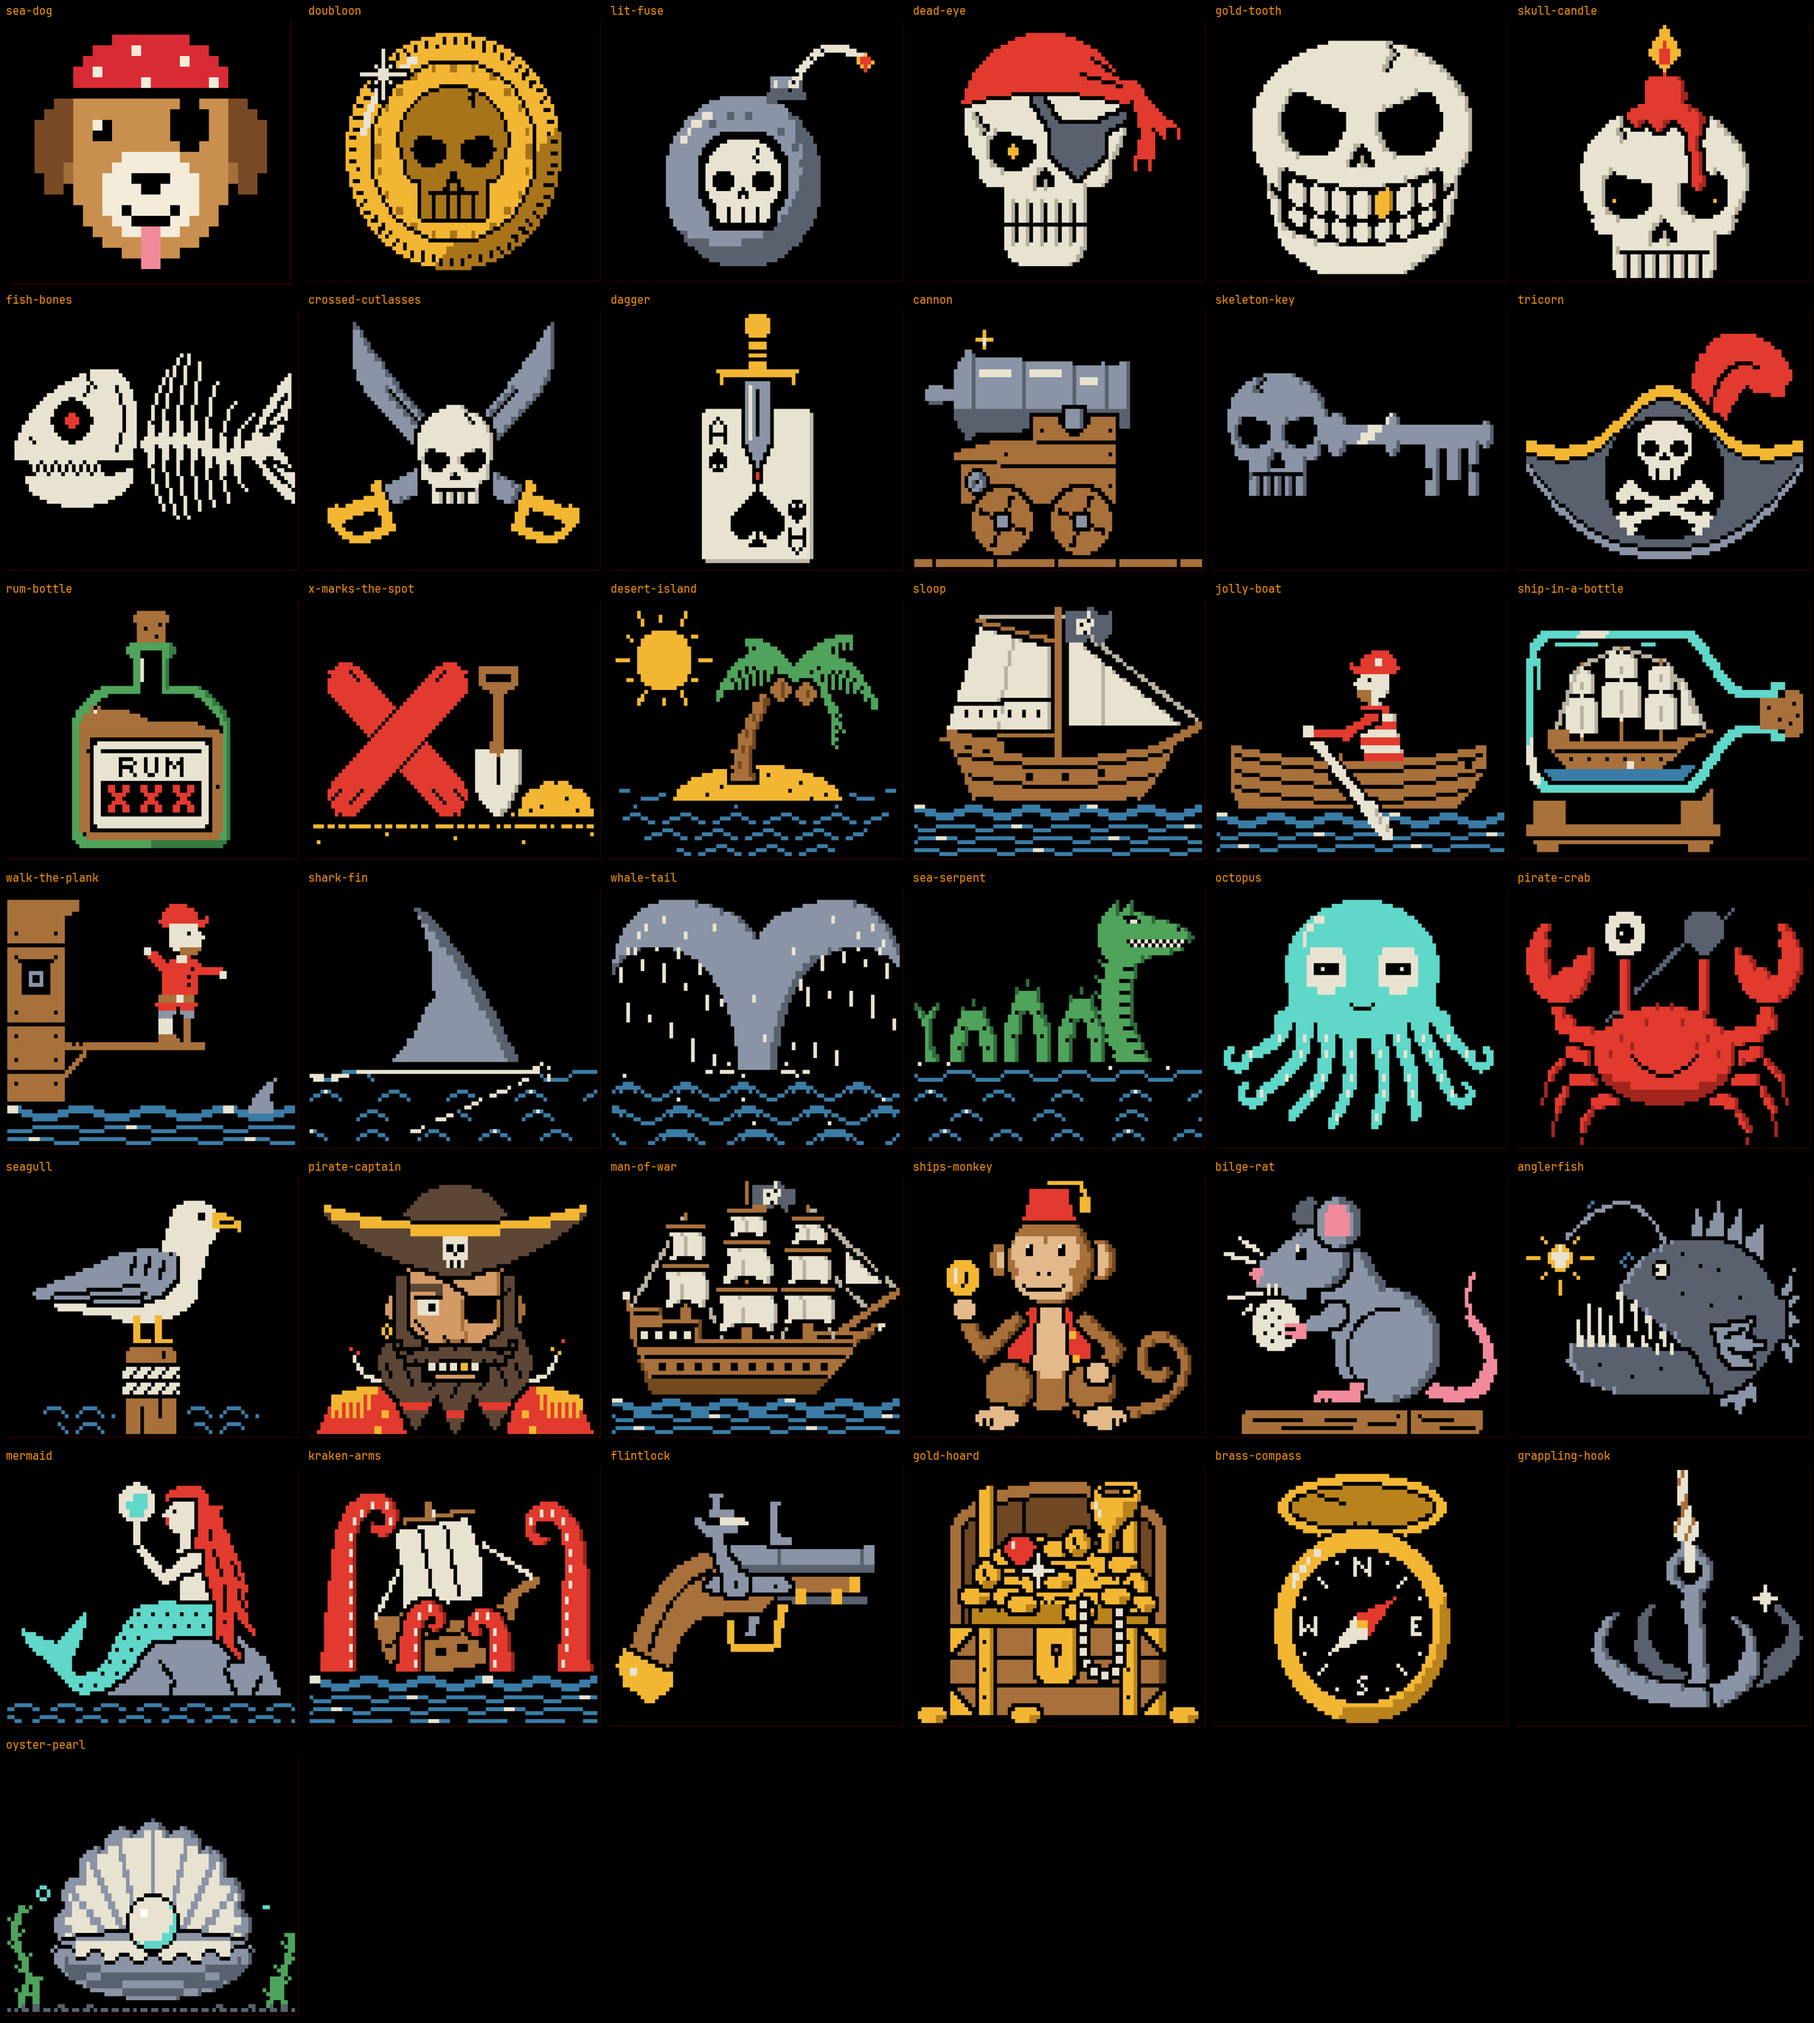
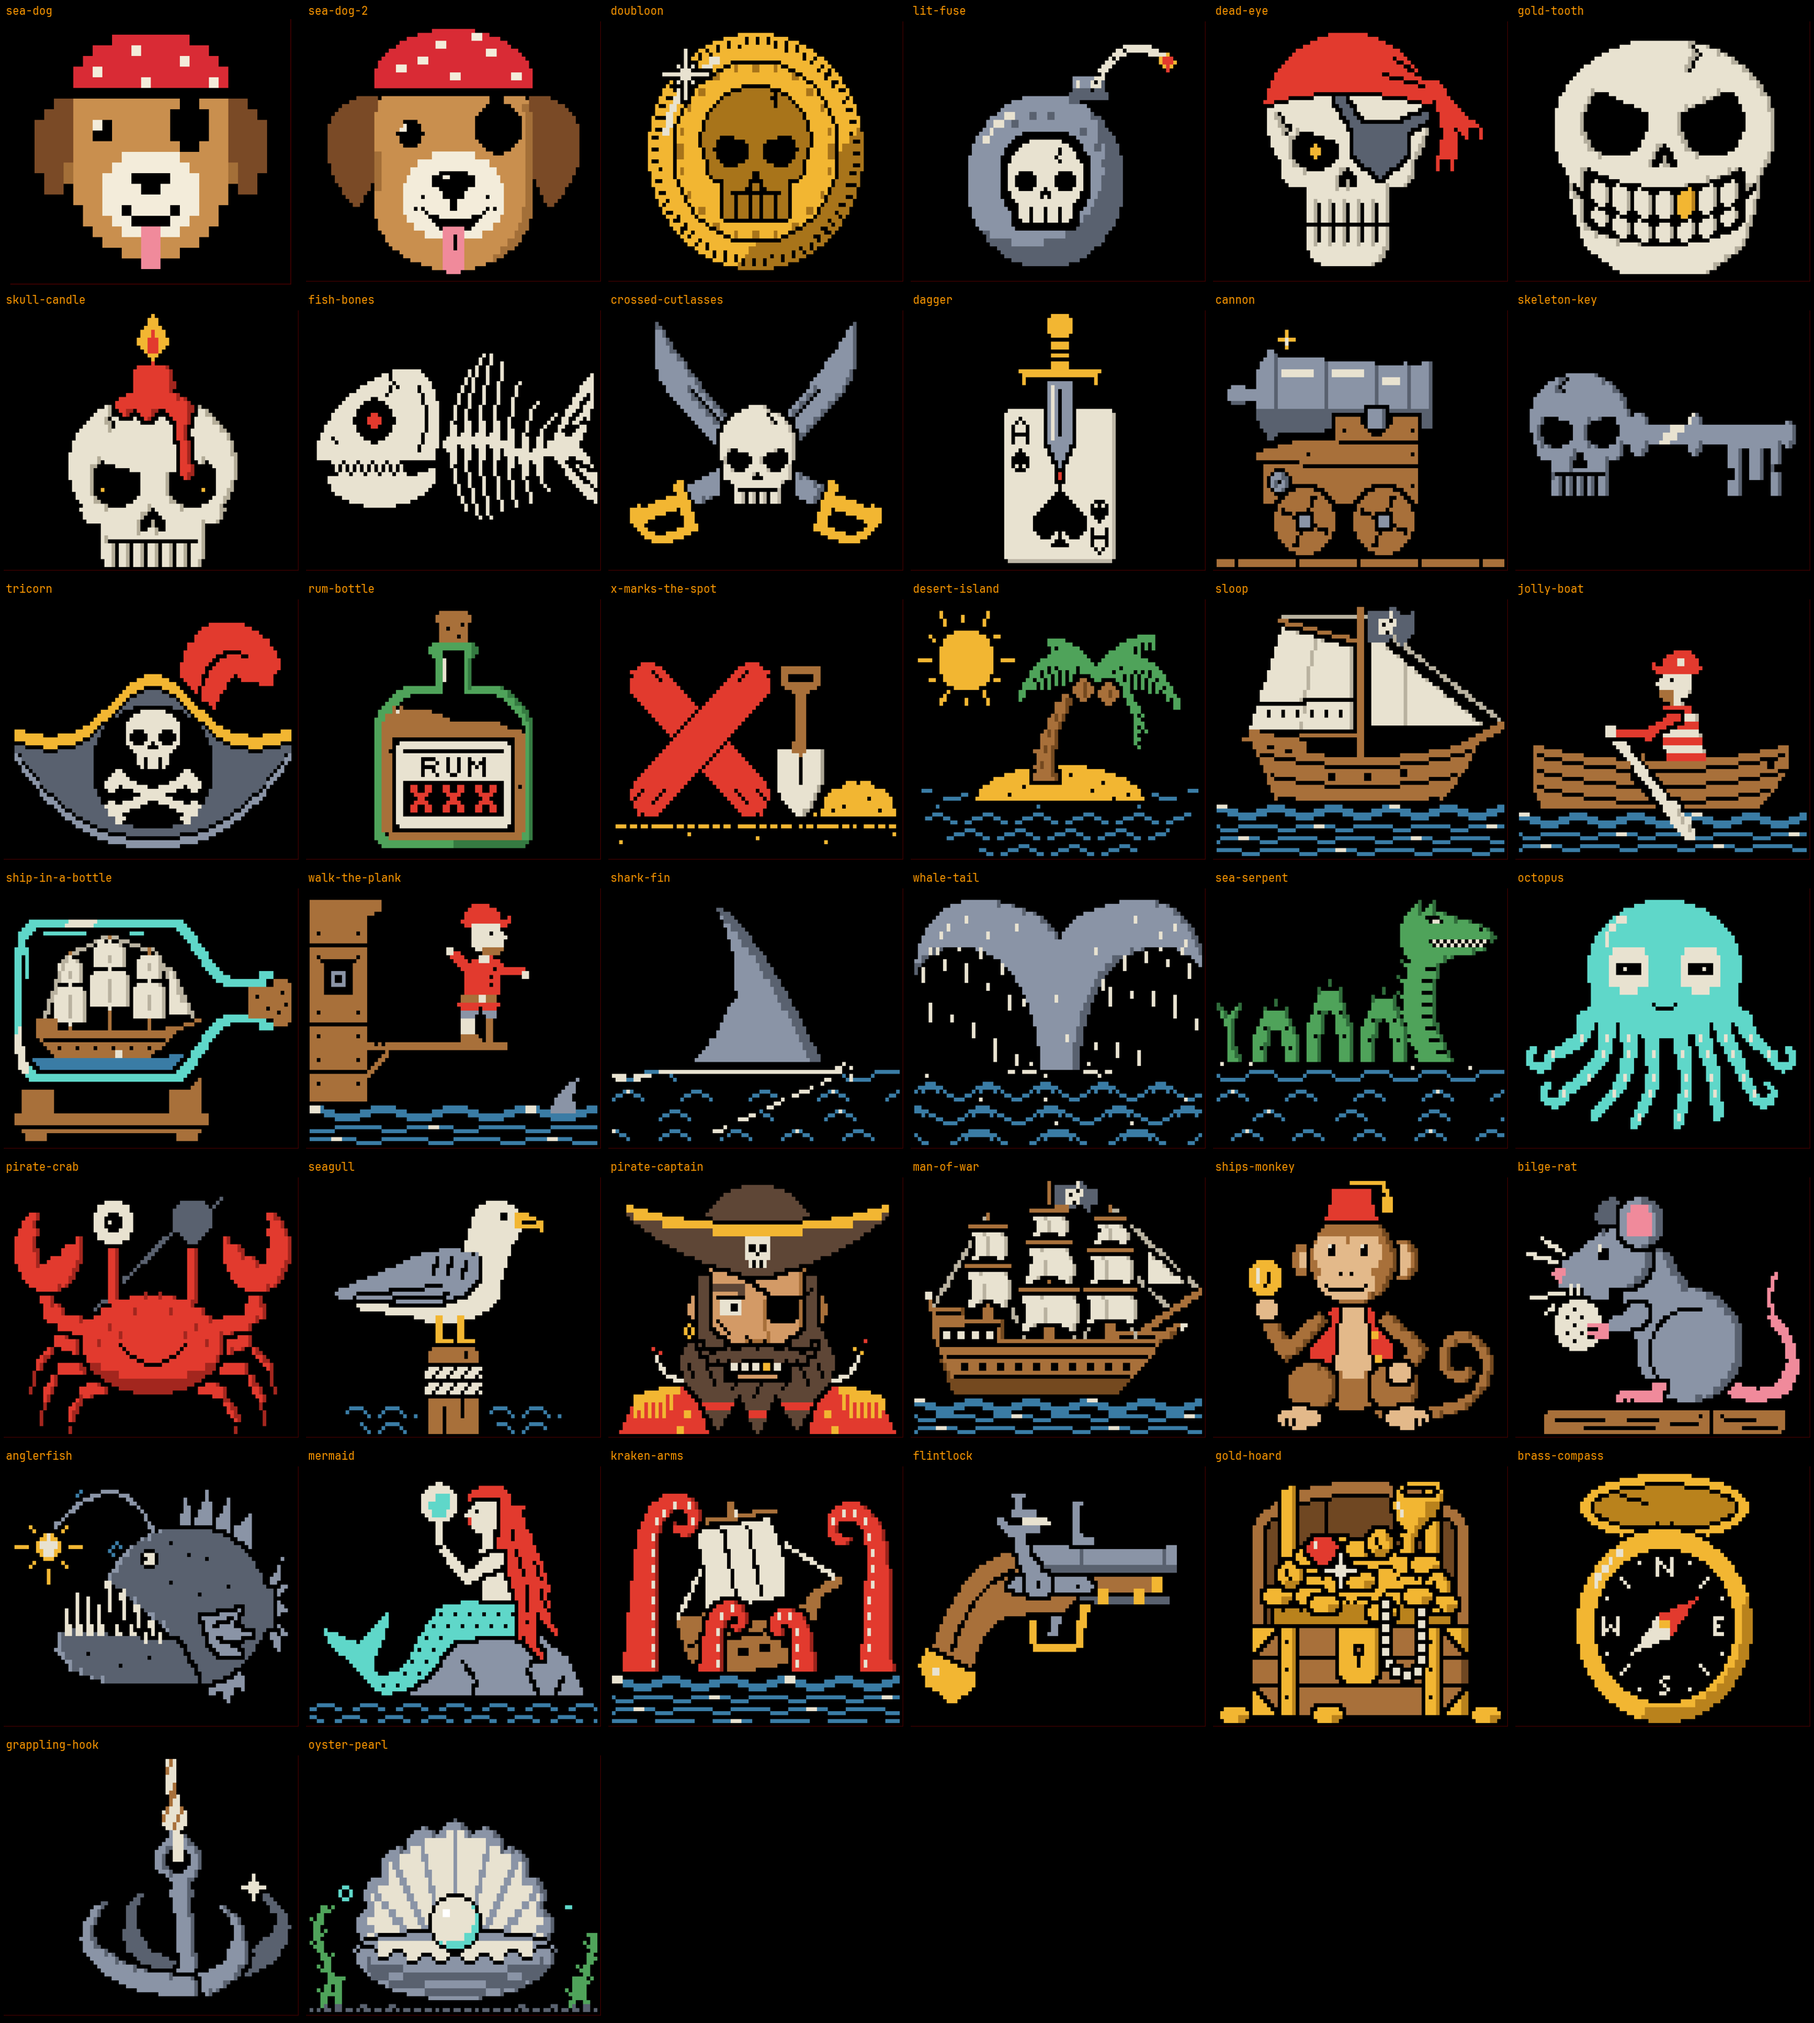
Add sea-dog-2, the pirate dog drawn finer, and release 0.2.1
sea-dog stays as the dog was drawn for the website, 26 pixels across;
sea-dog-2 is the same dog with a canvas pixel for every detail.

diff --git a/src/pieces/sea-dog-2.ts b/src/pieces/sea-dog-2.ts
@@ -1,0 +1,153 @@
+/*
+ * sea-dog-2: the pirate dog again, face on, in a spotted red bandana with a
+ * patch over one eye, drawn finer. It pants, its tongue lolling in and out,
+ * blinks its good eye, and twitches an ear, one then the other.
+ *
+ * sea-dog is the dog as it was drawn for the website, 26 pixels across; this
+ * is the same dog with a pixel of the canvas for every detail, two square
+ * pixels a cell, in the same six colours. Its black, the patch and its strap,
+ * the eye, nose and mouth, is the ground showing through, which is what is
+ * left of the drawing in one ink.
+ */
+import type { Frame, Meta } from "../types.ts";
+
+export const meta = {
+  name: "sea dog 2",
+  category: "scenes",
+  note: "the pirate dog drawn finer: bandana, eyepatch, panting and blinking",
+  cols: 80,
+  rows: 32,
+  fps: 20,
+  ground: "#000000",
+  // bone, bandana red, its coat, the coat in shade, its ears, its tongue
+  palette: ["#f3ecda", "#d92b35", "#c98f4e", "#a36f38", "#7a4a26", "#f08a9b"],
+} satisfies Meta;
+
+// ---- the pixel kit: a canvas of square pixels, one a cell wide and half a cell tall
+
+const W = meta.cols, H = meta.rows * 2;
+// A pixel is 0 for empty, else a palette index plus one.
+const BONE = 1, RED = 2, COAT = 3, SHADE = 4, EAR = 5, PINK = 6;
+
+const set = (p: Uint8Array, x: number, y: number, k: number) => {
+  x = Math.round(x), y = Math.round(y);
+  if (x >= 0 && x < W && y >= 0 && y < H) p[y * W + x] = k;
+};
+const rect = (p: Uint8Array, x: number, y: number, w: number, h: number, k: number) => {
+  for (let j = 0; j < h; j++) for (let i = 0; i < w; i++) set(p, x + i, y + j, k);
+};
+const disc = (p: Uint8Array, cx: number, cy: number, rx: number, ry: number, k: number) => {
+  for (let y = Math.floor(cy - ry); y <= cy + ry; y++)
+    for (let x = Math.floor(cx - rx); x <= cx + rx; x++) if (((x - cx) / rx) ** 2 + ((y - cy) / ry) ** 2 < 1) set(p, x, y, k);
+};
+const line = (p: Uint8Array, x0: number, y0: number, x1: number, y1: number, k: number, thick = 1) => {
+  const n = Math.max(1, Math.ceil(Math.hypot(x1 - x0, y1 - y0) * 2));
+  for (let i = 0; i <= n; i++) rect(p, Math.round(x0 + ((x1 - x0) * i) / n - (thick - 1) / 2), Math.round(y0 + ((y1 - y0) * i) / n - (thick - 1) / 2), thick, thick, k);
+};
+// Rows of characters as pixels `scale` across: "." leaves the pixel alone, "_" empties it, others are looked up in `keys`.
+const sprite = (p: Uint8Array, x: number, y: number, rows: string[], keys: Record<string, number>, scale = 1) => {
+  rows.forEach((row, j) =>
+    [...row].forEach((c, i) => {
+      if (c !== ".") rect(p, x + i * scale, y + j * scale, scale, scale, c === "_" ? 0 : keys[c]);
+    }),
+  );
+};
+// The canvas as half blocks. A cell has one ink: where its two pixels differ, the one further down the palette.
+const emit = (p: Uint8Array, color?: Uint8Array) => {
+  const out: string[] = [];
+  for (let y = 0; y < meta.rows; y++) {
+    let row = "";
+    for (let x = 0; x < W; x++) {
+      const a = p[2 * y * W + x], b = p[(2 * y + 1) * W + x];
+      row += a && b ? "█" : a ? "▀" : b ? "▄" : " ";
+      if (color) color[y * W + x] = Math.max(a, b, 1) - 1;
+    }
+    out.push(row);
+  }
+  return out.join("\n");
+};
+
+// ---- the dog
+
+const CX = 39.5; // the middle of its face
+// A row of pixels from x0 to x1, both counted.
+const span = (p: Uint8Array, x0: number, x1: number, y: number, k: number) => rect(p, Math.round(x0), y, Math.round(x1) - Math.round(x0) + 1, 1, k);
+// A value between the points of a curve given as [y, x] pairs, top to bottom.
+const along = (pts: number[][], y: number) => {
+  for (let i = 1; i < pts.length; i++)
+    if (y <= pts[i][0]) return pts[i - 1][1] + ((pts[i][1] - pts[i - 1][1]) * (y - pts[i - 1][0])) / (pts[i][0] - pts[i - 1][0]);
+  return pts[pts.length - 1][1];
+};
+// Half the width of its head at row y: square across the brow, rounding in to the chin.
+const head = (y: number) => (y < 21 ? 19.5 + (y - 18) * 0.7 : y <= 45 ? 21.5 : 21.5 * Math.sqrt(Math.max(0, 1 - ((y - 45) / 16.5) ** 2)));
+// The left ear's outer and inner edges, hanging from the brow; the right ear is its mirror.
+const EAR_OUT = [[18, 13], [20, 9], [23, 6], [26, 5], [33, 5], [37, 6], [40, 8], [43, 10], [45, 12]];
+const EAR_IN = [[18, 18], [34, 18], [38, 17], [42, 15], [45, 13]];
+const SPOTS = [[36, 5], [50, 7], [25, 11], [40, 12], [57, 12], [31, 8], [46, 3]];
+
+const LOOP = 7;
+// How far the tongue hangs through a pant, in pixels short of all the way.
+const PANT = [0, 1, 2, 3, 2, 1];
+const BLINK = [3, 3.2], LEFT_EAR = [1.5, 1.85], RIGHT_EAR = [4, 4.35];
+const within = (u: number, [a, b]: number[]) => u >= a && u < b;
+
+// The dog with its mouth shut and its eye open, an ear lifted `left` or `right` pixels as it twitches.
+function dog(left: number, right: number) {
+  const p = new Uint8Array(W * H);
+  for (const [side, lift] of [[-1, left], [1, right]])
+    for (let y = 18; y <= 45; y++) {
+      const a = along(EAR_OUT, y), b = along(EAR_IN, y);
+      if (side < 0) span(p, a, b, y - lift, EAR);
+      else span(p, W - 1 - b, W - 1 - a, y - lift, EAR);
+    }
+  // the bandana, a dome, spotted; the strap of the patch is the gap under it
+  for (let y = 1; y <= 15; y++) {
+    const half = Math.min(21.5, 22 * Math.sqrt(1 - ((15 - y) / 14.5) ** 2));
+    span(p, CX - half, CX + half, y, RED);
+  }
+  for (const [x, y] of SPOTS) disc(p, x, y, 1.7, 1.7, BONE);
+  // the head, its right side in shade
+  for (let y = 18; y <= 61; y++) {
+    const half = head(y);
+    span(p, CX - half, CX + half, y, COAT);
+    if (y > 19 && y < 59) span(p, CX + half - 1.5, CX + half, y, SHADE);
+  }
+  // the muzzle, with whisker spots, and the nose on it with a glint
+  disc(p, CX, 43, 14.5, 12, BONE);
+  for (const s of [-1, 1]) for (const [x, y] of [[9, 43], [11, 46], [8, 47]]) set(p, CX + s * x, y, 0);
+  disc(p, CX, 39, 6, 3, 0);
+  disc(p, CX, 41.5, 3.4, 2.6, 0);
+  rect(p, 37, 38, 2, 1, BONE);
+  rect(p, 39, 44, 2, 3, 0);
+  // the patch, hung from the strap
+  disc(p, 52, 25.5, 6.6, 6.6, 0);
+  rect(p, 50, 16, 4, 5, 0);
+  return p;
+}
+
+export default function seaDog2(): Frame {
+  const poses = [dog(0, 0), dog(2, 0), dog(0, 2)];
+
+  return (t, { color } = {}) => {
+    const u = ((t % LOOP) + LOOP) % LOOP;
+    const p = new Uint8Array(W * H);
+    p.set(poses[within(u, LEFT_EAR) ? 1 : within(u, RIGHT_EAR) ? 2 : 0]);
+
+    // its good eye, a glint in it; shut to a curved line for a blink
+    if (within(u, BLINK)) for (let x = -3; x <= 3; x++) set(p, 27.5 + x, 28 + (Math.abs(x) > 2 ? -1 : 0), 0);
+    else disc(p, 27.5, 27, 3.6, 3.6, 0), rect(p, 25, 25, 2, 2, BONE);
+
+    // panting: the mouth a smile, open, and the tongue through it drawing up and hanging down again
+    const short = PANT[Math.floor(u / 0.1) % PANT.length];
+    for (let x = -8; x <= 8; x++) {
+      const top = 49 - 0.03 * x * x, bottom = 52.5 - 0.075 * x * x;
+      for (let y = Math.round(top); y <= bottom; y++) set(p, CX + x, y, 0);
+    }
+    for (const s of [-1, 1]) set(p, CX + s * 9, 46, 0);
+    const tip = 62 - short;
+    rect(p, 37, 51, 6, tip - 54, PINK);
+    disc(p, CX, tip - 3, 3.5, 3.5, PINK);
+    rect(p, 40, 53, 1, tip - 58, 0);
+    return emit(p, color);
+  };
+}

diff --git a/src/own.ts b/src/own.ts
@@ -88,6 +88,7 @@ import * as redRoger from "./pieces/red-roger.ts";
 import * as roseRoger from "./pieces/rose-roger.ts";
 import * as rumBottle from "./pieces/rum-bottle.ts";
 import * as seaBattle from "./pieces/sea-battle.ts";
+import * as seaDog2 from "./pieces/sea-dog-2.ts";
 import * as seaDog from "./pieces/sea-dog.ts";
 import * as seaSerpent from "./pieces/sea-serpent.ts";
 import * as seagull from "./pieces/seagull.ts";
@@ -147,6 +148,7 @@ export const OWN_PIECES: [slug: string, pack: string, piece: Piece][] = [
   ["ahoy", "pirate", ahoy],
   ["pirate-heart", "pirate", pirateHeart],
   ["sea-dog", "pixels", seaDog],
+  ["sea-dog-2", "pixels", seaDog2],
   ["doubloon", "pixels", doubloon],
   ["lit-fuse", "pixels", litFuse],
   ["dead-eye", "pixels", deadEye],

diff --git a/README.md b/README.md
@@ -1,6 +1,6 @@
 # ahoy
 
-Animated ascii art in your terminal: 117 pirate pieces in five packs, the original *pirate pack*, *pirate pixels* (pixel art in a few flat colours), *jolly rogers* (two dozen takes on the skull and crossbones), *pirate lore* (animated logos from the golden age of piracy) and *pirate scenes* (big painted halftone scenes), plus the AWS logo, just for fun. Browse them with a live preview, play one full screen, or leave a screensaver running.
+Animated ascii art in your terminal: 118 pirate pieces in five packs, the original *pirate pack*, *pirate pixels* (pixel art in a few flat colours), *jolly rogers* (two dozen takes on the skull and crossbones), *pirate lore* (animated logos from the golden age of piracy) and *pirate scenes* (big painted halftone scenes), plus the AWS logo, just for fun. Browse them with a live preview, play one full screen, or leave a screensaver running.
 
 The pieces are built on [ascii.rest](https://github.com/bas3line/ascii), and its library of 200+ more pieces is a flag away: `--all`.
 
@@ -79,7 +79,7 @@ Pause a piece with `space`, step to the frame you want with `,` and `.`, and pre
 
 There are contact sheets of every piece in [`docs/sheets`](docs/sheets).
 
-**pirate pixels** (`pixels`): `sea-dog`, `doubloon`, `lit-fuse`, `dead-eye`, `gold-tooth`, `skull-candle`, `fish-bones`, `crossed-cutlasses`, `dagger`, `cannon`, `skeleton-key`, `tricorn`, `rum-bottle`, `x-marks-the-spot`, `desert-island`, `sloop`, `jolly-boat`, `ship-in-a-bottle`, `walk-the-plank`, `shark-fin`, `whale-tail`, `sea-serpent`, `octopus`, `pirate-crab`, `seagull`, `pirate-captain`, `man-of-war`, `ships-monkey`, `bilge-rat`, `anglerfish`, `mermaid`, `kraken-arms`, `flintlock`, `gold-hoard`, `brass-compass`, `grappling-hook`, `oyster-pearl`. Pixel art drawn in half blocks, two square pixels a cell, each pixel drawn on its own, in a few flat colours on black.
+**pirate pixels** (`pixels`): `sea-dog`, `sea-dog-2`, `doubloon`, `lit-fuse`, `dead-eye`, `gold-tooth`, `skull-candle`, `fish-bones`, `crossed-cutlasses`, `dagger`, `cannon`, `skeleton-key`, `tricorn`, `rum-bottle`, `x-marks-the-spot`, `desert-island`, `sloop`, `jolly-boat`, `ship-in-a-bottle`, `walk-the-plank`, `shark-fin`, `whale-tail`, `sea-serpent`, `octopus`, `pirate-crab`, `seagull`, `pirate-captain`, `man-of-war`, `ships-monkey`, `bilge-rat`, `anglerfish`, `mermaid`, `kraken-arms`, `flintlock`, `gold-hoard`, `brass-compass`, `grappling-hook`, `oyster-pearl`. Pixel art drawn in half blocks, two square pixels a cell, each pixel drawn on its own, in a few flat colours on black.
 
 **jolly rogers** (`rogers`): `skull-and-crossbones`, `jack-rackham`, `cutlass-bite`, `pierced-skull`, `crowned-skull`, `fire-roger`, `red-roger`, `ghost-roger`, `laughing-roger`, `rose-roger`, `profile-roger`, `winged-skull`, `emanuel-wynne`, `henry-every`, `condent-pennant`, `gold-roger`, `flintlock-roger`, `anchor-roger`, `shovel-roger`, `storm-roger`, `ice-roger`, `snake-roger`, `spider-roger`, `drowned-roger`. Two dozen takes on the skull and crossbones, or crossed cutlasses, drawn the same way.
 
